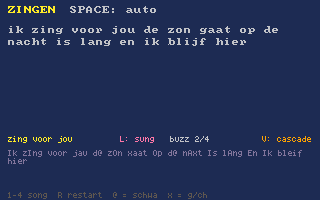
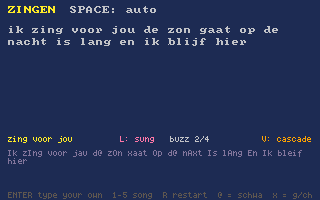
zingen: type your own line and hear it sung
ENTER opens a text box over the cart (your last line, editable), TAB switches
Dutch/Mipomi, ENTER sings it as song 5 on the word-shaped melody. Accented letters
typed or pasted reach lyric.h as UTF-8; the line is remembered with save_bytes.
The cart claims P so typing never pauses the console.

diff --git a/tools/carts/zingen.c b/tools/carts/zingen.c
@@ -8,19 +8,21 @@
   "teaches": ["generative-melody"],
   "lineage": "The first cart on lyric.h, the sung-words layer for INSTR_VOICE (idea after JIANT FM's VOICE/WORDS, M-VAVE FM-1 firmware, GPL-3.0; ideas only, no code; the Dutch rules are ours). Follows singab, the A/B probe that motivated the de-hiss pass.",
   "description": {
-    "summary": "The formant voice sings DUTCH. Type-free: pick a lyric and it sings it, one syllable per note, reading Dutch spelling by rules (long and short vowels, schwa, ch/g, ui/ij/eu, final devoicing). Song 4 is a lullaby in Mipomi, the playtime Mipos' language.",
+    "summary": "The formant voice sings DUTCH, and whatever you type: pick a lyric or type your own line and it sings it, one syllable per note, reading Dutch spelling by rules (long and short vowels, schwa, ch/g, ui/ij/eu, final devoicing). Song 4 is a lullaby in Mipomi, the playtime Mipos' language.",
     "detail": "lyric.h reads the text into syllables; each note starts the next one: its consonants at note-on, the vowel held while the note is, then the diphthong's second half and the final consonants chained at release ('nacht' = x then t), before the note lets go. The melody is made from the words: a word's last syllable lasts longer, every fourth word breathes. Or play it yourself: every key press sings the next syllable. The bottom line shows the phonemes it read.",
-    "controls": "SPACE = auto-sing on/off · A S D F G H J K = sing the next syllable on that note · 1 2 3 = Dutch lyrics, 4 = a Mipomi lullaby · V = formant model (Klatt cascade / parallel) · UP/DOWN = buzz (relaxed and round .. pressed and bright) · L = singer layer on/off (vibrato that blooms in, a living pitch, sung glides) · R = back to the start"
+    "controls": "SPACE = auto-sing on/off · A S D F G H J K = sing the next syllable on that note · 1 2 3 = Dutch lyrics, 4 = a Mipomi lullaby, 5 = your words · ENTER = type your own line (Dutch or Mipomi, TAB switches), ENTER again to hear it sung (it is remembered) · V = formant model (Klatt cascade / parallel) · UP/DOWN = buzz (relaxed and round .. pressed and bright) · L = singer layer on/off (vibrato that blooms in, a living pitch, sung glides) · R = back to the start"
   }
 }
 de:meta */
 #include "studio.h"
 #include "lyric.h"
 #include <stdio.h>
+#include <string.h>
 
 // ZINGEN — INSTR_VOICE sings through lyric.h: three Dutch lyrics (our own lines) on a melody made from
 // the words, and one MIPOMI song (the playtime Mipos' language, real words from mipomi-lang's
-// words.tsv) on its own written lullaby melody.
+// words.tsv) on its own written lullaby melody. And YOUR words: ENTER opens a text box, type any line
+// (Dutch or Mipomi, TAB switches), ENTER again and it sings it. The line is saved for next time.
 #define SLOT 5
 
 // a written melody: {midi, steps}; midi 0 = a rest. One note per syllable, in order.
@@ -39,7 +41,9 @@ static const MNote FALA_FONI[] = {
     {67,2},{64,2},{62,2},{60,6},{0,2}, {64,2},{62,4},{0,2}, {64,6},{60,10},{0,12},
 };
 typedef struct { const char *name; int lang; const char *text; const MNote *mel; int nmel; int step_fr; float vib; } Song;
-static const Song SONGS[4] = {
+#define USER_MAX 200
+static char user_text[USER_MAX] = "typ hier je eigen woorden en ik zing ze";
+static Song SONGS[5] = {
     { "zing voor jou", LYR_NL, "ik zing voor jou, de zon gaat op, de nacht is lang en ik blijf hier", 0, 0, 9, 0.25f },
     { "kunst",         LYR_NL, "kunst en liefde, vrolijk en eeuwig, in het licht van de straat", 0, 0, 9, 0.25f },
     { "de zee",        LYR_NL, "de zee is groen, de lucht is grijs, ik loop - naar huis door de regen", 0, 0, 9, 0.25f },
@@ -47,8 +51,15 @@ static const Song SONGS[4] = {
       "mipo fala, fala a foko, mibi i mola, mibi o jojo u jo, fono, foni a foko, "
       "mi i nini, mi i momo u jo, mipo foni, pomo, ni -",
       FALA_FONI, (int)(sizeof FALA_FONI / sizeof FALA_FONI[0]), 11, 0.35f },
+    { "your words", LYR_NL, user_text, 0, 0, 9, 0.25f },
 };
-#define NSONGS 4
+#define NSONGS 5
+#define USER   4
+
+// the typed line: a text box over the cart (ENTER opens it, ENTER sings it, TAB = language)
+static int typing = 0, tlang = LYR_NL, bs_held = 0;
+static char tbuf[USER_MAX];
+typedef struct { int ver, lang; char text[USER_MAX]; } Saved;   // save_bytes: the last line you typed
 static int mel_i = 0;
 static const int NOTES[8] = { 60, 62, 64, 67, 69, 72, 74, 76 };   // C pentatonic-ish, two octaves of keys
 static const int CONTOUR[16] = { 2, 3, 4, 3, 2, 1, 2, 4, 5, 4, 3, 2, 1, 0, 1, 2 };
@@ -99,7 +110,52 @@ void init(void) {
     instrument(SLOT, INSTR_VOICE, 5, 60, 7, 190);
     reverb(0.45f, 0.5f);
     instrument_reverb(SLOT, 0.25f);
+    Saved sv;
+    if (load_bytes(&sv, sizeof sv) == (int)sizeof sv && sv.ver == 1 && sv.text[0]) {
+        sv.text[USER_MAX - 1] = 0;
+        memcpy(user_text, sv.text, USER_MAX);
+        SONGS[USER].lang = sv.lang == LYR_MIPOMI ? LYR_MIPOMI : LYR_NL;
+    }
     pick_lyric(0);
+}
+
+static void keys_step(void);
+
+static void tb_add(unsigned char c) {
+    int n = (int)strlen(tbuf);
+    if (n < USER_MAX - 1) { tbuf[n] = (char)c; tbuf[n + 1] = 0; }
+}
+static void tb_back(void) {                               // one character, a whole UTF-8 sequence
+    int n = (int)strlen(tbuf);
+    while (n > 0 && ((unsigned char)tbuf[n - 1] & 0xC0) == 0x80) n--;
+    if (n > 0) n--;
+    tbuf[n] = 0;
+}
+
+// one frame of the text box
+static void type_step(void) {
+    for (const unsigned char *p = (const unsigned char *)text_input(); *p; p++) {
+        if (*p >= 0xC0) { if ((int)strlen(tbuf) < USER_MAX - 2) { tb_add(0xC3); tb_add((unsigned char)(*p - 0x40)); } }  // Latin-1 é → UTF-8
+        else if (*p >= 0x20 && *p < 0x7F) tb_add(*p);
+    }
+    for (const unsigned char *p = (const unsigned char *)paste(); *p; p++)
+        tb_add(*p == '\n' || *p == '\r' || *p == '\t' ? ' ' : *p);
+    if (keyp(KEY_BACKSPACE)) { tb_back(); bs_held = 0; }
+    else if (key(KEY_BACKSPACE) && ++bs_held > 24 && bs_held % 3 == 0) tb_back();   // held: repeat
+    if (keyp(KEY_TAB)) tlang = tlang == LYR_NL ? LYR_MIPOMI : LYR_NL;
+    if (keyp(KEY_ENTER)) {
+        typing = 0;
+        if (tbuf[0]) {                                    // sing it (an empty line just closes the box)
+            memcpy(user_text, tbuf, USER_MAX);
+            SONGS[USER].lang = tlang;
+            Saved sv; memset(&sv, 0, sizeof sv);
+            sv.ver = 1; sv.lang = tlang; memcpy(sv.text, tbuf, USER_MAX);
+            save_bytes(&sv, sizeof sv);
+            singer_off(&sing);
+            pick_lyric(USER);
+            autop = 1;
+        }
+    }
 }
 
 // the auto melody, one note per syllable, shaped by the words
@@ -123,6 +179,19 @@ static void auto_step(void) {
 }
 
 void update(void) {
+    (void)key('P');                                        // ours, so typing a "p" never pauses the console
+    if (typing) type_step();
+    else if (keyp(KEY_ENTER)) {                            // open the text box on your last line
+        typing = 1;
+        memcpy(tbuf, user_text, USER_MAX);
+        tlang = SONGS[USER].lang;
+    } else keys_step();
+    const Song *g = &SONGS[which];
+    if (autop && ++fr >= g->step_fr) { fr = 0; if (g->mel) mel_step(g); else auto_step(); }
+    singer_update(&sing);
+}
+
+static void keys_step(void) {
     if (keyp(' ')) { autop = !autop; singer_off(&sing); note_left = rest_left = 0; }
     for (int k = 0; k < NSONGS; k++) if (keyp('1' + k)) pick_lyric(k);
     if (keyp('V')) { casc = !casc; sing.parallel = !casc; }
@@ -138,9 +207,34 @@ void update(void) {
         if (keyp(KEYS[k])) { autop = 0; sing_note(NOTES[k]); keyheld = k; }
         if (keyr(KEYS[k]) && keyheld == k) { singer_off(&sing); keyheld = -1; }
     }
-    const Song *g = &SONGS[which];
-    if (autop && ++fr >= g->step_fr) { fr = 0; if (g->mel) mel_step(g); else auto_step(); }
-    singer_update(&sing);
+}
+
+// the text box: your line wrapped over a few rows, a blinking cursor at its end
+static void draw_box(void) {
+    int bx = 12, by = 40, bw = SCREEN_W - 24, bh = 96;
+    rectfill(bx, by, bw, bh, CLR_BLACK);
+    rect(bx, by, bw, bh, CLR_YELLOW);
+    print("type words to sing", bx + 8, by + 6, CLR_YELLOW);
+    const char *ln = tlang == LYR_NL ? "TAB: Nederlands" : "TAB: Mipomi";
+    print(ln, bx + bw - 8 - text_width(ln), by + 6, tlang == LYR_NL ? CLR_ORANGE : CLR_PINK);
+    // wrap word by word into rows that fit (a space ends a word; it is drawn as the gap)
+    int x = bx + 8, y = by + 22, n = (int)strlen(tbuf), sp = text_width(" ");
+    char wd[USER_MAX];
+    for (int i = 0; i <= n; ) {
+        int j = i;
+        while (j < n && tbuf[j] != ' ') j++;
+        memcpy(wd, tbuf + i, (size_t)(j - i)); wd[j - i] = 0;
+        int w = text_width(wd);
+        if (x > bx + 8 && x + w > bx + bw - 8) { x = bx + 8; y += 10; }
+        if (y < by + bh - 22) print(wd, x, y, CLR_WHITE);
+        x += w;
+        if (j < n) x += sp;                               // the space after it (so the cursor sits after a typed space)
+        i = j + 1;
+    }
+    if (((int)(now() * 2.0f)) % 2 == 0 && y < by + bh - 22) rectfill(x + 1, y, 6, 8, CLR_YELLOW);
+    font(FONT_SMALL);
+    print("ENTER sing it  BACKSPACE erase  empty + ENTER closes", bx + 8, by + bh - 10, CLR_LIGHT_GREY);
+    font(FONT_NORMAL);
 }
 
 void draw(void) {
@@ -177,8 +271,9 @@ void draw(void) {
     { char b[24]; snprintf(b, sizeof b, "buzz %d/4", (int)(buzz * 4.0f + 0.5f)); print(b, SCREEN_W - 150, 136, CLR_LIGHT_GREY); }
     print(sung ? "L: sung" : "L: plain", SCREEN_W - 200, 136, sung ? CLR_PINK : CLR_DARK_GREY);
     { const char *m = casc ? "V: cascade" : "V: parallel"; print(m, SCREEN_W - 8 - text_width(m), 136, casc ? CLR_ORANGE : CLR_DARK_GREY); }
-    print("1-4 song  R restart  @ = schwa  x = g/ch", 8, SCREEN_H - 8, CLR_DARK_GREY);
+    print("ENTER type your own  1-5 song  R restart  @ = schwa  x = g/ch", 8, SCREEN_H - 8, CLR_DARK_GREY);
     font(FONT_NORMAL);
+    if (typing) draw_box();
 }
 
 #ifdef DE_SPEC

diff --git a/docs/design/sung-lyrics.md b/docs/design/sung-lyrics.md
@@ -3,7 +3,8 @@
 STATUS: BUILDING (2026-11-13) — `runtime/lyric.h` reads **Dutch** by spelling rules and sings it on
 `INSTR_VOICE`, one syllable per note, and **Mipomi** (the playtime Mipos' language); the `zingen`
 cart is the demo (three Dutch lyrics + "Fala, Foni", a Mipomi lullaby on a written melody) and runs
-`lyr_selfcheck()` (23 Dutch words + 3 Mipomi phrases, `node tools/spec.js zingen`).
+`lyr_selfcheck()` (23 Dutch words + 3 Mipomi phrases, `node tools/spec.js zingen`). Type your own line
+in zingen (ENTER, TAB = Dutch/Mipomi, ENTER again: it sings it; remembered with `save_bytes`).
 
 ## Where it came from
 
@@ -83,4 +84,3 @@ vowel).
 - More languages through the same `lang` switch: Spanish is the cheapest (pure rules, JIANT shows the
   rule set), English needs a dictionary.
 - A lyric generator (JIANT's templates + themed word banks, sized to the pattern's note count).
-- A typed-text input in a cart, so a stranger can make it sing their own words.
